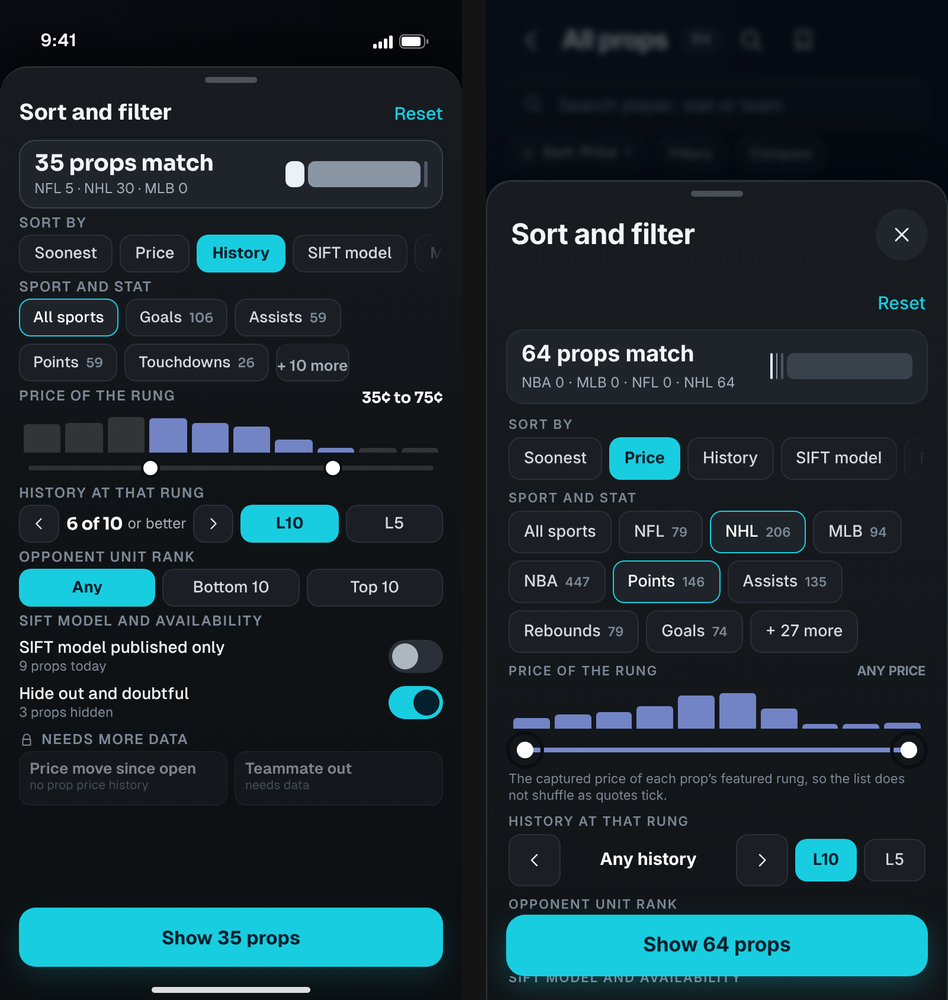
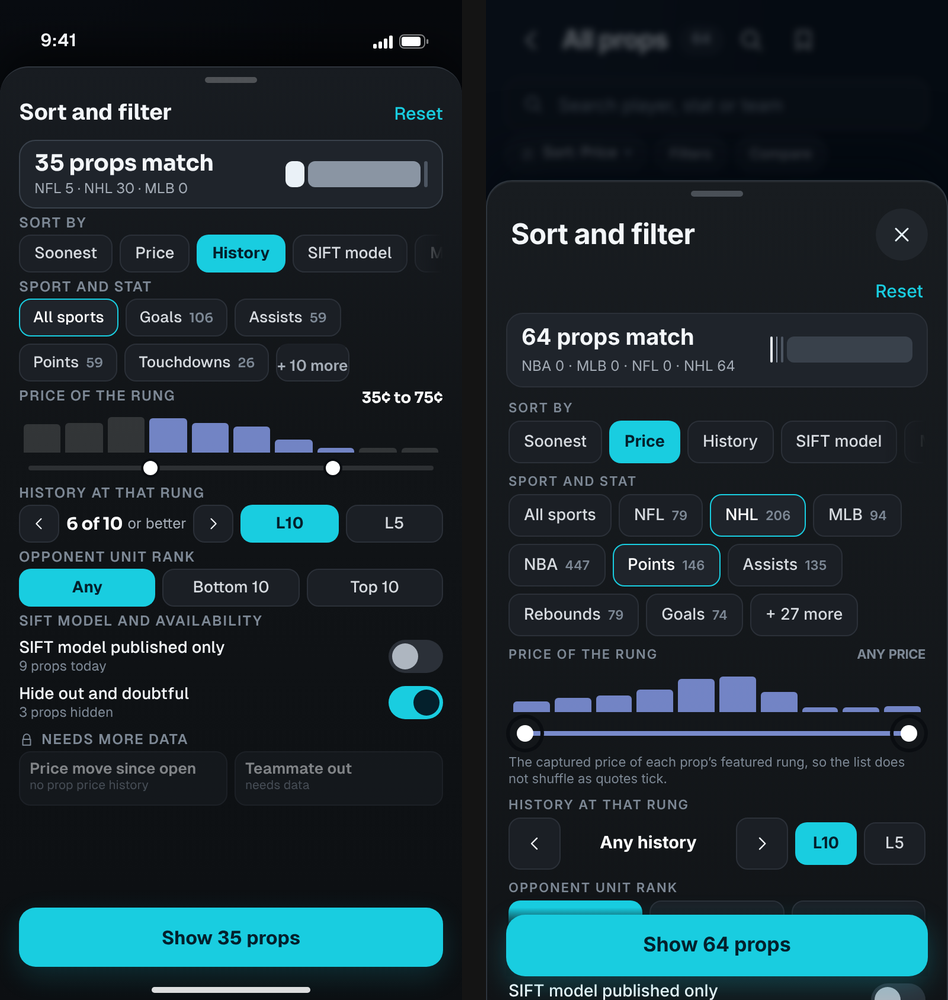
docs(sift3): milestone 6 status, Prop Discovery comparison images and notes
Claude-Session: https://claude.ai/code/session_01VY9ryDt8fagr5efSR7g1Q3

diff --git a/docs/sift3/IMPLEMENTATION_STATUS.md b/docs/sift3/IMPLEMENTATION_STATUS.md
@@ -84,3 +84,21 @@ Branch `claude/sift3-m3-player`. Route `/v3/player/:slug/:playerId`; the tab bar
 **The SIFT model lane and the approval ledger (one story).** A model number appears only if (1) the app's projection authority resolves it as authoritative for that player, stat and game, AND (2) the approval ledger (`src/lib/projectionApprovals.ts`) row for that stat is PROMOTED to the foundation engine (and its publication standard is not NOT_MET); `siftLaneFor` re-checks (2) itself. The screen carries the record: the lane has `data-ledger="NFL:receptions:PROMOTED:2026-10-18"` and Matchup stages carry theirs. Found per stat: NFL receptions, targets, team pass attempts, team rush attempts: PROMOTED 2026-10-18 (team attempts "MET_WITH_CAVEATS", the caveat is shown); NFL receiving yards, carries, rushing yards, touchdowns (anytime TD), passing yards and attempts: HELD (lane "—", "not approved yet"); NFL passing TDs: RETAINED ("not approved yet"); NFL completions: PROMOTED; NBA points, rebounds, assists, threes, PRA: APPROVED_PENDING_LIVE_INPUTS, the established engine stays the one number, so the lane is "—" with "awaiting live inputs"; NHL goals, assists, points: RETAINED, "—"; MLB: prices only. The mockup's "research-only" chip was the publication's document-level flag (every projection document says `authority: research_only`: context, never betting authority), not the ledger; Matchup now says "3 of 4 approved" from the same ledger, and the lane footer says "approved model estimate" only when a number is shown. Tests: `tests/v3/siftLane.test.ts`, e2e "SIFT model lane only where the approval ledger allows it".
 
 **Tests.** `npx tsc -b`, `npx eslint src/v3 tests/v3 e2e` clean; `vitest run tests/v3`: 19 files, 238 tests (new: `player.test.ts` 25 on a real 17-game log, `playerSchema.test.ts`, `contract.test.ts`, `siftLane.test.ts`). Playwright Chromium phone, real published documents: `e2e/v3-player.spec.ts` 31 (tap-matrix rows 18 to 27 each with Back, touch scrub, filters, saved research twice, tabs, Replay, migrations, missing quote, missing data, basketball, ledger). WebKitGTK: `scripts/v3-qa/player_wk.py` 19/19 and `journeys.py` 48/48. Assertions changed in the older specs (`e2e/v3.spec.ts`, `e2e/v3-foundations.spec.ts`, `journeys.py`) are only the Player selectors, because the locked design replaced the pre-lock Player screen (windows `L5 L10 season vs all`, bar opens an on-page card, "Show N games").
+
+## Milestone 6: Prop Discovery (PD1 to PD6)
+
+Branch `claude/sift3-m6-props`. Route `/v3/props` (lazy; Prop Discovery owns the address, it is never handed to the classic `/:slug/props` route). One address holds the home (`view` absent), the list (`view=list`, implied by any list field) and the comparison (`view=compare`); sort, filters, search text, selections, compare mode, the expanded row (`exp=id` or `id@k` for another rung) and `pin` are all in it, in place changes replace history, typed text never adds an entry per keystroke.
+
+**Explore tab decision.** The Explore tab is rooted at Prop Discovery (the locked walkthrough's `E.nav` roots Explore at the Prop Discovery home). The older search screen stays at `/v3/explore` under the same tab and keeps working (the Home and Games search icons, Following's "find teams and players" and the stat search journey all open it); the PD home search field searches props only. Tab lighting: Games for Team, Player and Game; Explore for Stat Detail, Prop Discovery and the older search.
+
+**Universe (cost bound).** There is no all-games prop manifest, so the universe is a join of published documents read lazily and shared with the rest of the app: per game `event_detail` (the contract ladders; 0.3 to 1.3 MB each), the sport's explorer index (roster to team, which players have a profile), the NFL history index, event research for injuries where the game's own document carries none, the projection feed only for sports with an approved model, and one ranking document per opponent unit. A game enters the universe when it is real, pre-game, in a sport `capabilities.ts` marks `propPrices: ready`, starts within 48 hours (`PROP_HORIZON_MS`) and its board row says at least one market is listed. This is what keeps a 300-game college slate (0 player markets today) from costing 600 documents. No player log is read up front: History is computed for rows on screen (after the viewer pauses), the expanded row and card shelves, from the NFL history file (about 7 KB per player) or the NHL player profile's game log (about 28 KB).
+
+**Default sort.** The design's default is History hit rate; ranking 335 or 1000 rows by it needs every player's log and no bulk published summary exists. The default is therefore Soonest (needs no log). Sorting or filtering by History loads logs only on request: up to 30 missing logs load automatically, beyond that the list says "Load history for N more players (about X KB)" and ranks only rows whose log is loaded, saying so. A row without a loaded log never ranks above one that has it and never passes a History threshold; nothing is faked.
+
+**Lanes.** Market is the gated pre-fee ask; History is hits over the last 10 games from the player's log; SIFT model is shown only where the approval ledger approves the family AND the published projection passes its checks (`lib/projectionApprovals.ts`, `lib/projectionAuthority.ts` through `data/props/model.ts`): today NFL receptions and completions and MLB pitcher outs and strikeouts. Everything else is "—" with the reason ("not approved yet"; NHL skaters are under validation). The lane is never blended, subtracted or sorted against Market; no "edge" or "value" wording exists.
+
+**Prices.** Only through `data/quoteGate.ts` (list context for rows, contract context in the exact-contract sheet). A withheld price is "—" in rows, cards, rung chips and compare; the sheet shows "Price unavailable right now" with Retry and hides ask, bid, implied, fee and break-even. Rows register their tickers at the `game` cadence only after they have stayed on screen for 450 ms; opening a row asks once for its whole ladder (`refreshNow`). Seam for `claude/quote-track`: `usePropPrices` (`addRowsScope`) and the open-row refresh (`refreshContract`). With the current feed (3.5 minutes plus a 5-minute CDN cache behind, and no NBA/CFB/CBB games in it) most list prices are withheld by the approved age rule until the relay carries them: that is the rule working, not a defect.
+
+**Real-document tests.** `e2e/v3-props.spec.ts` (23 tests) runs on the cached real documents under a fixed browser clock (`feedNow()` in `e2e/support/realFeeds.ts`, written to `.v3-feed-cache/captured_at.txt`; real-document caches describe one instant) and `freshQuotes()` re-stamps only the quote feed's observation times (a test transformation; prices untouched) or makes the feed fail for the missing-price states. Unit tests: `tests/v3/props-data.test.ts` (24) and `tests/v3/props-universe.test.ts` (12). WebKit: `scripts/v3-qa/props_wk.py` (48 checks at 390x844 and 375x667) and `journeys.py` (48). Performance probe: `scripts/v3-qa/props-perf.mjs`. Screenshots and side-by-side comparisons: `docs/sift3/qa/impl/props/` (`scripts/v3-qa/props-shots.mjs`).
+
+**Known differences from the mockups.** Default sort is Soonest (above); the "Has history" chip does not exist (the History threshold is a filter in the sheet); the filter sheet's Reset sits on the line under the shared sheet title (the shared sheet header owns the title row and close button); Research is absent for a player without a published profile (most NHL skaters: only some have profiles), instead of a button to nowhere; ranks use the publication's universe ("of 28" NFL teams, not 32); the sport rail and statistic chips come from today's data, so NBA appears; start times print in the viewer's time zone; the sheet's "Back to list" is a link that closes it. Locked facets (price move since open, teammate out, position-level defense) are notes with their reason, never controls.

diff --git a/docs/sift3/qa/impl/props/README.md b/docs/sift3/qa/impl/props/README.md
@@ -1,0 +1,15 @@
+# Prop Discovery: reference (left) against implementation (right)
+
+Generated by `scripts/v3-qa/props-shots.mjs` on real published documents (cached 2026-10-26, fixed clock 23:25 UTC, quote observation times re-stamped; see `docs/sift3/IMPLEMENTATION_STATUS.md`, Milestone 6). References are `docs/sift3/redesign/out/pd1..pd6.png` (390x844 only; the 375x667 images put the same reference beside the 375-wide implementation).
+
+| File | State |
+| --- | --- |
+| `pd1-home-*.png` | PD1 home |
+| `pd2-list-*.png` | PD2 list (NHL points) |
+| `pd3-peek-*.png` | PD3 expanded prop |
+| `pd4-filters-*.png` | PD4 sort and filter sheet |
+| `pd5-compare-*.png` | PD5 compare, three props across two sports |
+| `pd6-contract-*.png` | PD6 exact contract |
+| `pd2-missing-price-*.png`, `pd6-missing-*.png` | withheld prices: "—" in rows; "Price unavailable right now" with Retry, no fee or break-even (implementation only) |
+
+Differences (honest list): the slate and numbers are the real day's (the mockup was a 335-row NFL, NHL and MLB capture); default sort Soonest; no "Has history" chip; Reset under the shared sheet title; the sheet starts lower and carries the shared close button; no iOS status bar or home indicator (browser screenshot); the exact-contract sheet is the shared one (ask, bid, implied and volume wrap onto two rows at 390 wide, a SIFT-model note line and the neighbouring-rung history notes differ in wording); Research is absent where no player profile is published; opponent ranks use the publication's universe size.
